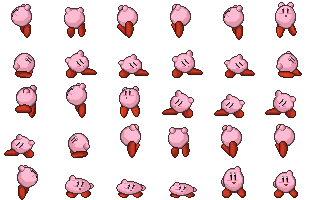
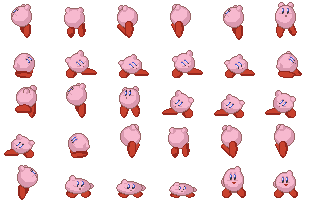
Finished Kirby's air attacks.
I'm going to bed.

diff --git a/SmashBros/Game/Characters/Kirby.cpp b/SmashBros/Game/Characters/Kirby.cpp
@@ -75,10 +75,10 @@ namespace SmashBros
 		addTwoSidedAnimation("standard_attack2", "standard_attack2.png", 12, 3, 1);
 		addTwoSidedAnimation("standard_attack3", "standard_attack3.png", 18, 6, 1);
 		addTwoSidedAnimation("standard_attack_side", "standard_attack_side.png", 20, 8, 1);
-		addTwoSidedAnimation("standard_attack_up", "standard_attack_up.png", 16, 5, 1);
+		addTwoSidedAnimation("standard_attack_up", "standard_attack_up.png", 20, 5, 1);
 		addTwoSidedAnimation("standard_attack_down", "standard_attack_down.png", 16, 4, 1);
 		addTwoSidedAnimation("air_attack", "air_attack.png", 26, 9, 1);
-		addTwoSidedAnimation("air_attack_side", "air_attack_side.png", 26, 8, 1);
+		addTwoSidedAnimation("air_attack_side", "air_attack_side.png", 20, 8, 1);
 		addTwoSidedAnimation("air_attack_up", "air_attack_up.png", 18, 6, 1);
 		addTwoSidedAnimation("air_attack_down", "air_attack_down.png", 30, 11, 1);
 	}
@@ -240,6 +240,8 @@ namespace SmashBros
 	{
 		addAttackInfo(DIR_LEFT, 4, LEFT, 9, 300, -1,2,2.1f, -1,3,3.3f);
 		addAttackInfo(DIR_RIGHT,4,RIGHT, 9, 300,  1,2,2.1f, -1,3,3.3f);
+		addAttackInfo(DIR_LEFT, 8, LEFT, 4, 200, -1,2.1f,2.5f, -1,1.2f,2.1f);
+		addAttackInfo(DIR_RIGHT,8,RIGHT, 4, 200,  1,2.1f,2.5f, -1,1.2f,2.1f);
 
 		if(!checkItemUseSide())
 		{
@@ -251,7 +253,7 @@ namespace SmashBros
 			{
 				if(!bUp)
 				{
-					//TODO add side air attack
+					AttackTemplates::normalAirSideA(this, 8,1.8f);
 				}
 			}
 		}
@@ -259,10 +261,14 @@ namespace SmashBros
 
 	void Kirby::attackUpA()
 	{
-		addAttackInfo(DIR_UP, 5, LEFT,  7, 300, -1,0,0, -1,2.9f,2.1f);
-		addAttackInfo(DIR_UP, 5, RIGHT, 7, 300,  1,0,0, -1,2.9f,2.1f);
-		addAttackInfo(DIR_LEFT,  5, RIGHT, 7, 300, -1,1.1f,1.7f, -1,2.9f,2.1f);
-		addAttackInfo(DIR_RIGHT, 5, LEFT,  7, 300,  1,1.1f,1.7f, -1,2.9f,2.1f);
+		addAttackInfo(DIR_UP, 5, LEFT,  7, 300, -1,0,0, -1,2.9f,2.4f);
+		addAttackInfo(DIR_UP, 5, RIGHT, 7, 300,  1,0,0, -1,2.9f,2.4f);
+		addAttackInfo(DIR_LEFT,  5, RIGHT, 7, 300, -1,0.8f,1.7f, -1,2.8f,2.4f);
+		addAttackInfo(DIR_RIGHT, 5, LEFT,  7, 300,  1,0.8f,1.7f, -1,2.8f,2.4f);
+		addAttackInfo(DIR_UP, 9, LEFT,  7, 300, -1,0,0, -1,3.0f,2.5f);
+		addAttackInfo(DIR_UP, 9, RIGHT, 7, 300,  1,0,0, -1,3.0f,2.5f);
+		addAttackInfo(DIR_LEFT,  9, RIGHT, 7, 300, -1,0.8f,1.8f, -1,2.9f,2.6f);
+		addAttackInfo(DIR_RIGHT, 9, LEFT,  7, 300,  1,0.8f,1.8f, -1,2.9f,2.6f);
 
 		if(!checkItemUseUp())
 		{
@@ -274,7 +280,7 @@ namespace SmashBros
 			{
 				if(!bUp)
 				{
-					//TODO add up air attack
+					AttackTemplates::normalAirUpA(this, 9,2.066f);
 				}
 			}
 		}
@@ -286,6 +292,8 @@ namespace SmashBros
 		addAttackInfo(DIR_RIGHT,6,RIGHT, 6, 200,  1,3,2, -1,3,2);
 		addAttackInfo(DIR_DOWN, 6, LEFT, 6, 200, -1,2,1.4f, 1,3.5f,3.4f);
 		addAttackInfo(DIR_DOWN, 6,RIGHT, 6, 200,  1,2,1.4f, 1,3.5f,3.4f);
+		addAttackInfo(DIR_DOWN, 10, LEFT, 6, 200, -1,0,0, 1,3.9f,3.6f);
+		addAttackInfo(DIR_DOWN, 10,RIGHT, 6, 200,  1,0,0, 1,3.9f,3.6f);
 		
 		if(!checkItemUseDown())
 		{
@@ -298,7 +306,7 @@ namespace SmashBros
 			{
 				if(!bUp)
 				{
-					//TODO add down air attack
+					AttackTemplates::normalAirDownA(this, 10,2.052f);
 				}
 			}
 		}

diff --git a/SmashBros/Loader.cpp b/SmashBros/Loader.cpp
@@ -202,7 +202,7 @@ namespace SmashBros
 			break;
 
 			case Global::CHAR_KIRBY:
-			win_fps = 8;
+			win_fps = 16;
 			win_cols = 6;
 			win_rows = 5;
 			break;
